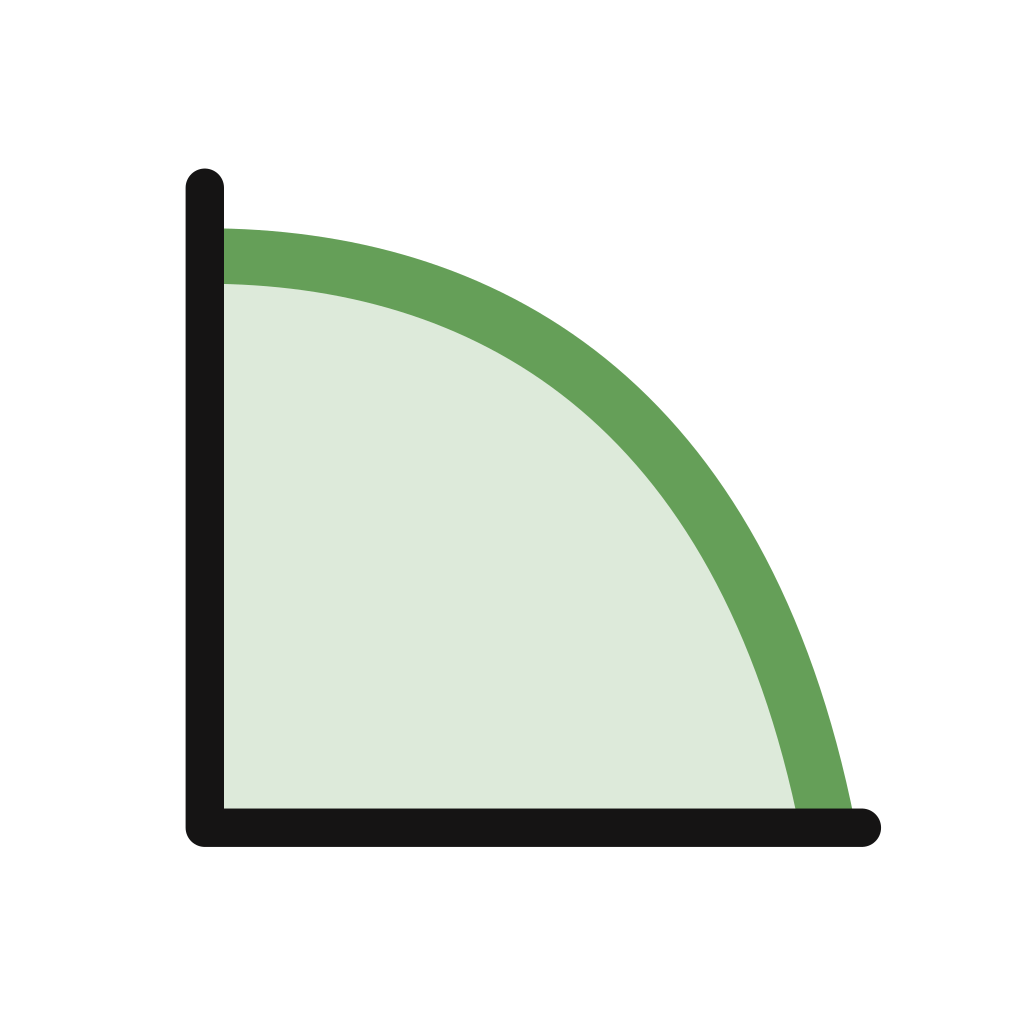
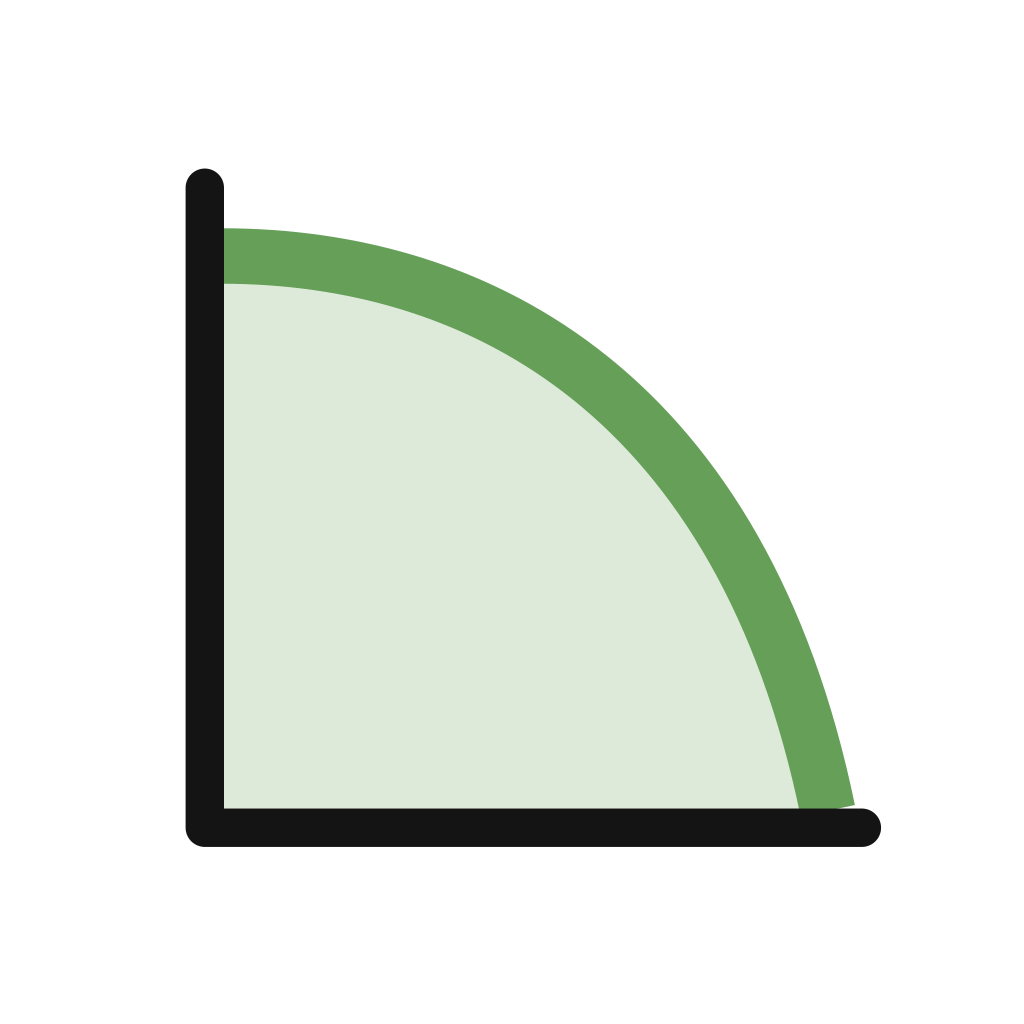
Inset Pareto frontier endpoints

diff --git a/docs/superpowers/specs/2026-08-27-pareto-inference-logo-design.md b/docs/superpowers/specs/2026-08-27-pareto-inference-logo-design.md
@@ -11,6 +11,7 @@ Create a compact Pareto Inference mark that uses the Precursor Labs palette and 
 - Fill the dominated region with the same green at 22% opacity.
 - Draw the axes in warm white `#FFFDFA`.
 - Connect the frontier directly to both axes.
+- Inset each visible frontier endpoint by 4 pixels beneath the axis strokes so no green edge extends past the axes.
 - Draw the axes above the frontier so the white frame stays continuous.
 - Do not include data points, gradients, shadows, labels, or decorative details.
 
